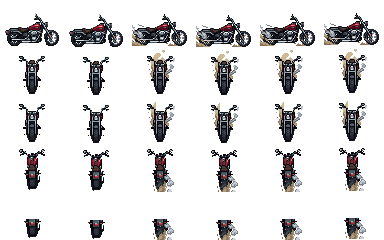
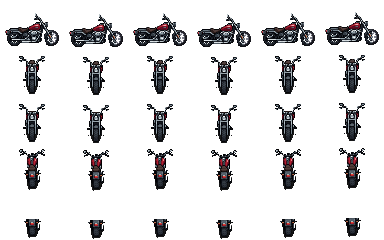
Neon Pixel UI on Tô Châu (hard pixel borders, block shadows, CRT scan, stepped animations, pixel HP/MP orbs); motorbike: clean run frames + procedural pixel dust trail and exhaust smoke
Claude-Session: https://claude.ai/code/session_01AqWtbjMjwaw5KPYKGcCy7Z

diff --git a/public/css/hudneon.css b/public/css/hudneon.css
@@ -187,3 +187,82 @@ body.hud-neon #hud-status, body.hud-neon #mini-wrap, body.hud-neon #skillbar { a
   #nx-fx .c, #nx-fx .edge::after, #nx-fx i, body.hud-neon #hud-status, body.hud-neon #mini-wrap, body.hud-neon #skillbar, body.hud-neon .panel-box::after, body.hud-neon .modal-box::after, body.hud-neon .wc-box::after { animation: none !important; }
   body.hud-neon .panel-box, body.hud-neon .modal-box { animation: none; }
 }
+
+/* =====================================================================
+   NEON PIXEL (body.hud-neon.hud-px): góc vuông, viền cứng 2px, bóng đổ khối không nhoè,
+   vạch quét màn CRT, chữ đổ bóng lệch, chuyển động giật theo khung (steps) như game 8-bit
+   ===================================================================== */
+body.hud-px { --px-cy: #19e3ff; --px-pk: #ff2e9a; --px-yl: #ffe14a; --px-ink: #05081a;
+  --px-ring: 0 0 0 2px var(--px-cy), 0 0 0 4px var(--px-ink), 0 0 0 6px rgba(25, 227, 255, .35), 6px 6px 0 4px rgba(255, 46, 154, .45);
+  --px-ring-pk: 0 0 0 2px var(--px-pk), 0 0 0 4px var(--px-ink), 0 0 0 6px rgba(255, 46, 154, .35), 5px 5px 0 4px rgba(0, 0, 0, .5);
+  --px-scan: repeating-linear-gradient(0deg, rgba(0, 0, 0, .22) 0 1px, transparent 1px 3px);
+}
+body.hud-px canvas, body.hud-px img { image-rendering: pixelated; }
+.nx-orb canvas.nx-px { position: absolute; inset: 0; width: 100%; height: 100%; image-rendering: pixelated; filter: drop-shadow(3px 3px 0 rgba(0, 0, 0, .55)); }
+body.hud-px .nx-val b { text-shadow: 2px 2px 0 #000 !important; letter-spacing: 1px; }
+body.hud-px .nx-val small { text-shadow: 1px 1px 0 #000 !important; }
+body.hud-px .nx-val em { text-shadow: 1px 1px 0 #000; }
+body.hud-px .nx-orb.low canvas { animation: pxLow .5s steps(2) infinite; }
+@keyframes pxLow { 50% { filter: brightness(1.6) drop-shadow(0 0 0 #ff2050) drop-shadow(3px 3px 0 #ff2050); } }
+
+/* khung, bảng, popup: góc vuông + viền cứng + vạch quét */
+body.hud-px #hud-status, body.hud-px #mini-wrap, body.hud-px #skillbar, body.hud-px #chat, body.hud-px #target-frame, body.hud-px #map-name, body.hud-px #tutorial-box, body.hud-px #daily-box, body.hud-px #story-box, body.hud-px #buff-line span,
+body.hud-px .panel-box, body.hud-px .modal-box, body.hud-px .bm-panel, body.hud-px .wm-panel, body.hud-px .wc-box, body.hud-px #tooltip, body.hud-px .toast, body.hud-px .wm-node, body.hud-px .wm-info {
+  border-radius: 0 !important; border: 0 !important; box-shadow: var(--px-ring) !important; }
+body.hud-px .panel-box, body.hud-px .modal-box, body.hud-px .bm-panel, body.hud-px .wm-panel, body.hud-px .wc-box {
+  background: var(--px-scan), var(--nx-grid), linear-gradient(180deg, #0a1030, #05081a) !important; animation: pxOpen .28s steps(4) both !important; }
+@keyframes pxOpen { 0% { transform: scaleY(.04); filter: brightness(3); } 50% { transform: scaleY(.6); filter: brightness(1.6); } 100% { transform: none; filter: none; } }
+body.hud-px .panel-box::after, body.hud-px .modal-box::after, body.hud-px .wc-box::after { background: linear-gradient(180deg, transparent 0 46%, rgba(25, 227, 255, .12) 46% 50%, transparent 50%) !important; animation: pxScan 3s steps(30) infinite !important; mix-blend-mode: normal; }
+@keyframes pxScan { from { transform: translateY(-100%); } to { transform: translateY(150%); } }
+body.hud-px .panel-box::before, body.hud-px .modal-box::before { inset: 4px !important; filter: none !important;
+  background: linear-gradient(var(--px-cy), var(--px-cy)) top left / 12px 4px no-repeat, linear-gradient(var(--px-cy), var(--px-cy)) top left / 4px 12px no-repeat,
+    linear-gradient(var(--px-cy), var(--px-cy)) top right / 12px 4px no-repeat, linear-gradient(var(--px-cy), var(--px-cy)) top right / 4px 12px no-repeat,
+    linear-gradient(var(--px-pk), var(--px-pk)) bottom left / 12px 4px no-repeat, linear-gradient(var(--px-pk), var(--px-pk)) bottom left / 4px 12px no-repeat,
+    linear-gradient(var(--px-pk), var(--px-pk)) bottom right / 12px 4px no-repeat, linear-gradient(var(--px-pk), var(--px-pk)) bottom right / 4px 12px no-repeat !important; }
+body.hud-px .panel-head { background: repeating-linear-gradient(90deg, rgba(25, 227, 255, .14) 0 4px, rgba(25, 227, 255, .06) 4px 8px) !important; border-bottom: 2px solid var(--px-cy) !important; }
+body.hud-px .panel-head h3, body.hud-px #panel-title, body.hud-px .bm-head b, body.hud-px .wm-head b { letter-spacing: 2.5px !important; text-shadow: 2px 2px 0 var(--px-pk), 0 0 0 transparent !important; color: #fff !important; }
+body.hud-px #panel-close, body.hud-px .x-btn, body.hud-px .bm-x, body.hud-px .wc-x { border-radius: 0 !important; border: 0 !important; background: var(--px-pk) !important; color: #fff !important; box-shadow: 0 0 0 2px #fff, 3px 3px 0 2px #000 !important; }
+body.hud-px #panel-close:active, body.hud-px .x-btn:active { transform: translate(2px, 2px); box-shadow: 0 0 0 2px #fff, 1px 1px 0 2px #000 !important; }
+
+/* thẻ, ô, nút, tab: viền vuông, bóng khối */
+body.hud-px .card, body.hud-px .li, body.hud-px .item-detail, body.hud-px .sk-head, body.hud-px .sk-slot, body.hud-px .stat-grid div, body.hud-px .au-box, body.hud-px .cmp-box, body.hud-px .npc-head {
+  border-radius: 0 !important; border: 2px solid rgba(25, 227, 255, .35) !important; box-shadow: 3px 3px 0 rgba(0, 0, 0, .45) !important; }
+body.hud-px .btn, body.hud-px .tabs button { clip-path: none !important; border-radius: 0 !important; border: 2px solid var(--px-cy) !important; box-shadow: 3px 3px 0 #000 !important; text-shadow: 1px 1px 0 #000 !important; text-transform: uppercase; letter-spacing: .6px; }
+body.hud-px .btn:hover, body.hud-px .tabs button:hover { box-shadow: 3px 3px 0 var(--px-pk) !important; background: rgba(25, 227, 255, .22) !important; }
+body.hud-px .btn:active, body.hud-px .tabs button:active { transform: translate(2px, 2px); box-shadow: 1px 1px 0 #000 !important; }
+body.hud-px .btn.primary, body.hud-px .tabs button.on { background: var(--px-cy) !important; color: #031026 !important; border-color: #fff !important; text-shadow: none !important; box-shadow: 3px 3px 0 var(--px-pk) !important; }
+body.hud-px .btn.green { background: #3dffb0 !important; color: #022a1a !important; border-color: #fff !important; text-shadow: none !important; box-shadow: 3px 3px 0 #000 !important; }
+body.hud-px .btn.red { background: var(--px-pk) !important; color: #fff !important; border-color: #fff !important; box-shadow: 3px 3px 0 #000 !important; }
+body.hud-px .slot { border-radius: 0 !important; border: 2px solid rgba(25, 227, 255, .4) !important; background: linear-gradient(135deg, rgba(25, 227, 255, .12) 25%, transparent 25%) 0 0 / 4px 4px, #060a22 !important; box-shadow: inset -2px -2px 0 rgba(0, 0, 0, .5), inset 2px 2px 0 rgba(255, 255, 255, .06) !important; }
+body.hud-px .slot.r-rare { border-color: #4fa3ff !important; box-shadow: 0 0 0 2px rgba(79, 163, 255, .35) !important; }
+body.hud-px .slot.r-epic { border-color: #c060ff !important; box-shadow: 0 0 0 2px rgba(192, 96, 255, .4) !important; }
+body.hud-px .slot.r-legendary { border-color: #ff9b2f !important; box-shadow: 0 0 0 2px rgba(255, 155, 47, .45) !important; animation: pxBlink 1s steps(2) infinite; }
+@keyframes pxBlink { 50% { box-shadow: 0 0 0 2px rgba(255, 225, 74, .8) !important; } }
+body.hud-px input, body.hud-px select, body.hud-px textarea { border-radius: 0 !important; border: 2px solid var(--px-cy) !important; box-shadow: inset 2px 2px 0 rgba(0, 0, 0, .6) !important; }
+
+/* HUD: khung nhân vật, bản đồ nhỏ, nút menu, nút chiêu */
+body.hud-px .avatar { border-radius: 0 !important; border: 0 !important; box-shadow: 0 0 0 2px var(--px-cy), 0 0 0 4px var(--px-ink), 3px 3px 0 4px var(--px-pk) !important; }
+body.hud-px .avatar canvas { border-radius: 0 !important; }
+body.hud-px #hud-level { border-radius: 0 !important; box-shadow: 2px 2px 0 #000 !important; }
+body.hud-px #menu-buttons button, body.hud-px .qb { border-radius: 0 !important; border: 2px solid rgba(25, 227, 255, .7) !important; box-shadow: 3px 3px 0 rgba(0, 0, 0, .55) !important; }
+body.hud-px #menu-buttons button:active, body.hud-px .qb:active { transform: translate(2px, 2px); box-shadow: 1px 1px 0 #000 !important; }
+body.hud-px #minimap { border-radius: 0 !important; border: 0 !important; box-shadow: 0 0 0 2px var(--px-cy) !important; image-rendering: pixelated; }
+body.hud-px .skill { border-radius: 0 !important; box-shadow: 2px 2px 0 #000 !important; }
+body.hud-px #joy-base { box-shadow: 0 0 0 2px var(--px-ink), 0 0 0 4px rgba(25, 227, 255, .4) !important; border-style: dashed !important; }
+body.hud-px #exp-bar i { background: repeating-linear-gradient(90deg, var(--px-cy) 0 6px, #0aa0c0 6px 8px, transparent 8px 10px) !important; box-shadow: none !important; }
+body.hud-px #hud-status, body.hud-px #mini-wrap, body.hud-px #skillbar { animation: pxBreath 2.4s steps(3) infinite !important; }
+@keyframes pxBreath { 50% { box-shadow: 0 0 0 2px #fff, 0 0 0 4px var(--px-ink), 0 0 0 6px rgba(25, 227, 255, .5), 6px 6px 0 4px rgba(255, 46, 154, .55); } }
+
+/* hiệu ứng viền màn hình kiểu pixel */
+body.hud-px #nx-fx .c { border-width: 4px; filter: none; animation: pxCorner 1.2s steps(2) infinite; width: 28px; height: 28px; }
+@keyframes pxCorner { 50% { opacity: .25; } }
+body.hud-px #nx-fx .edge { height: 2px; background: repeating-linear-gradient(90deg, rgba(25, 227, 255, .55) 0 6px, transparent 6px 12px); }
+body.hud-px #nx-fx .edge.b { background: repeating-linear-gradient(90deg, rgba(255, 46, 154, .55) 0 6px, transparent 6px 12px); }
+body.hud-px #nx-fx .edge::after { height: 4px; top: -1px; border-radius: 0; width: 48px; box-shadow: none; background: repeating-linear-gradient(90deg, #fff 0 4px, transparent 4px 6px); animation: nxRun 4s steps(60) infinite; }
+body.hud-px #nx-fx .side { width: 2px; background: repeating-linear-gradient(180deg, rgba(25, 227, 255, .45) 0 4px, transparent 4px 10px); }
+body.hud-px #nx-fx .side.r { background: repeating-linear-gradient(180deg, rgba(255, 46, 154, .45) 0 4px, transparent 4px 10px); }
+body.hud-px #nx-fx i { border-radius: 0; width: 4px; height: 4px; box-shadow: none; animation-timing-function: steps(18); }
+/* lớp vạch quét CRT phủ nhẹ toàn HUD */
+body.hud-px #nx-fx::after { content: ''; position: absolute; inset: 0; background: repeating-linear-gradient(0deg, rgba(0, 0, 0, .08) 0 1px, transparent 1px 3px); }
+body.hud-px .toast { background: #060a22 !important; color: #e6fbff; text-shadow: 1px 1px 0 #000; }
+@media (prefers-reduced-motion: reduce) { body.hud-px .panel-box, body.hud-px .modal-box, body.hud-px #nx-fx .c, body.hud-px #nx-fx .edge::after, body.hud-px #hud-status, body.hud-px #mini-wrap, body.hud-px #skillbar, body.hud-px .slot.r-legendary { animation: none !important; } }

diff --git a/public/js/mountfx.js b/public/js/mountfx.js
@@ -286,35 +286,71 @@
       dragonLightning(ctx, x, y, now, side, seed, lv || 1, 'under');
     } else if (id === 'kim_quy' || id === 'kim_nguu') {
       groundGlow(ctx, x, y, 40, '#ffd040', 0.18 + Math.sin(now / 300 + seed) * 0.05);
-    }
-  }
-  // Xe máy: đứng yên nổ máy (khói pô phụt từng nhịp, xe rung trong ảnh), chạy: khói xả dày + bụi đường tung sau bánh
-  // + vệt đèn pha phía trước khi chạy. Toạ độ theo khung ảnh (tools/mount_art/xe_may): nhìn ngang pô ở đuôi xe, thấp.
-  const SMOKE = ['#d8d8de', '#b8b8c2', '#9a9aa6'], DUST = ['#c8a878', '#b08c5a', '#dcc49a'];
-  function engine(ctx, x, y, now, view, moving, key, flip) {
-    const R = Math.random, side = view === 'side', dir = flip ? -1 : 1;   // dir: hướng đầu xe khi nhìn ngang
-    // điểm pô xả / bánh sau theo hướng nhìn
-    const ex = side ? x - dir * 34 : view === 'up' ? x + 9 : x + 11, ey = side ? y - 9 : view === 'up' ? y - 10 : y - 34;
-    const back = side ? Math.PI * (dir > 0 ? 1 : 0) : view === 'up' ? Math.PI / 2 : -Math.PI / 2;   // hướng khói bay (ngược chiều chạy)
-    if (!moving) {
-      // nổ máy: mỗi nhịp phụt 1-2 cụm khói nhỏ, bay lên chậm rồi tan
-      if (every(key + 'pf', 240 + R() * 140, now)) FX.emit(1 + (R() < 0.35 ? 1 : 0), ex, ey, { angle: back - (side ? 0 : 0), spread: 0.9, speed: 16, vy: -14, life: 950, size: 3.4, color: SMOKE[Math.floor(R() * 3)], drag: 1.6 });
-      return;
-    }
-    // chạy: khói xả kéo vệt + bụi đường hai bên bánh sau
-    if (every(key + 'pm', 55, now)) FX.emit(1, ex, ey, { angle: back, spread: 0.45, speed: 70, vy: -10, life: 620, size: 3.8, color: SMOKE[Math.floor(R() * 3)], drag: 2 });
-    const wx = side ? x - dir * 26 : x + (R() - 0.5) * 12, wy = side ? y - 2 : view === 'up' ? y - 2 : y - 30;
-    if (every(key + 'pd', 45, now)) FX.emit(1, wx, wy, { angle: back + (R() - 0.5) * 0.8, spread: 0.7, speed: 55, vy: -24, life: 520, size: 3.2, color: DUST[Math.floor(R() * 3)], drag: 2.4, grav: 40 });
-    // đèn pha: quạt sáng mờ phía trước (nhìn ngang / nhìn xuống)
-    if (view !== 'up') {
-      ctx.save(); ctx.globalCompositeOperation = 'lighter';
-      const hx = side ? x + dir * 30 : x, hy = side ? y - 26 : y - 22, len = side ? 70 : 46, a0 = side ? (dir > 0 ? 0 : Math.PI) : Math.PI / 2;
-      const g = ctx.createRadialGradient(hx, hy, 2, hx, hy, len);
-      g.addColorStop(0, 'rgba(255,246,200,.32)'); g.addColorStop(1, 'rgba(255,246,200,0)');
-      ctx.fillStyle = g; ctx.globalAlpha = 0.75 + Math.sin(now / 90) * 0.08;
-      ctx.beginPath(); ctx.moveTo(hx, hy); ctx.arc(hx, hy, len, a0 - 0.32, a0 + 0.32); ctx.closePath(); ctx.fill();
+    } else if (id === 'xe_may') {
+      // hạt bụi ở toạ độ thế giới: bỏ lớp thu nhỏ quanh thú (mfx) để vệt bụi đứng yên trên mặt đất khi xe chạy đi
+      const MK = (window.Assets && Assets.MOUNT_K) || 1;
+      ctx.save(); ctx.translate(x, y); ctx.scale(1 / MK, 1 / MK); ctx.translate(-x, -y);
+      motoEmit(x, y, now, view, moving, id + seed, flip, MK);
+      motoPuffs(ctx, id + seed, now);
       ctx.restore();
     }
+  }
+  // Xe máy: hạt bụi / khói riêng (toạ độ thế giới, sống lâu) -> xe chạy qua để lại vệt bụi dài phía sau.
+  // Vẽ kiểu pixel (khối vuông ghép), dưới thân xe. Đứng yên: máy nổ phụt khói từng nhịp. Chạy: khói xả kéo vệt + bụi tung sau bánh.
+  const SMOKE = ['#e2e2ea', '#c4c4ce', '#a2a2ae'], DUST = ['#d6b888', '#c2a070', '#e4cfa4', '#b08c5a'];
+  const PUFFS = new Map();   // key -> { list, last, mv }
+  function puffOf(key) { let P = PUFFS.get(key); if (!P) PUFFS.set(key, P = { list: [], last: 0, mv: 0 }); return P; }
+  function addPuff(P, x, y, o) { if (P.list.length < 170) P.list.push(Object.assign({ x, y, t0: performance.now(), vx: 0, vy: 0, r0: 2, r1: 10, a: .5, life: 1500 }, o)); }
+  function motoEmit(x, y, now, view, moving, key, flip, MK) {
+    const P = puffOf(key), R = Math.random, side = view === 'side', dir = flip ? -1 : 1;
+    // pô xả và bánh sau theo hướng nhìn (đơn vị theo ảnh thú, nhân MK ra toạ độ thế giới)
+    const ex = x + (side ? -dir * 36 : view === 'up' ? 10 : 12) * MK, ey = y - (side ? 9 : view === 'up' ? 10 : 36) * MK;
+    const bx = side ? -dir : 0, by = side ? 0 : view === 'up' ? 1 : -1;   // hướng "phía sau xe" trên màn hình
+    const wx = x + (side ? -dir * 26 : 0) * MK, wy = y - (side ? 1 : view === 'up' ? 1 : 30) * MK;
+    if (moving && !P.mv) for (let k = 0; k < 6; k++) addPuff(P, wx + (R() - .5) * 10, wy, { vx: bx * 40 + (R() - .5) * 60, vy: -20 - R() * 20, r0: 3, r1: 14, a: .6, life: 1400, c: DUST[k % 4] });   // vừa rồ ga: tung bụi
+    P.mv = moving;
+    if (moving) {
+      if (every(key + 'xd', 22, now)) addPuff(P, wx + (R() - .5) * 8, wy + (R() - .5) * 4, { vx: bx * 18 + (R() - .5) * 14, vy: by * 18 - 5 - R() * 6, r0: 5, r1: 14 + R() * 6, a: .6, life: 2400 + R() * 900, c: DUST[Math.floor(R() * 4)] });
+      if (every(key + 'xs', 60, now)) addPuff(P, ex, ey, { vx: bx * 34 + (R() - .5) * 10, vy: by * 34 - 8, r0: 2, r1: 9, a: .5, life: 1100 + R() * 300, c: SMOKE[Math.floor(R() * 3)] });
+      if (every(key + 'xk', 90, now)) FX.emit(1, wx, wy - 2, { angle: Math.atan2(by || -0.6, bx || 0), spread: 1, speed: 70, vy: -30, grav: 260, life: 420, size: 2, color: '#6a5232' });   // sỏi đá văng
+    } else if (every(key + 'xi', 260 + R() * 160, now)) {   // nổ máy: phụt khói từng nhịp
+      const n = R() < .4 ? 2 : 1;
+      for (let k = 0; k < n; k++) addPuff(P, ex + k * bx * 3, ey, { vx: bx * 12 + (R() - .5) * 8, vy: -14 - R() * 8, r0: 1.5, r1: 7 + R() * 3, a: .55, life: 1500 + R() * 400, c: SMOKE[Math.floor(R() * 3)], delay: k * 90 });
+    }
+  }
+  function motoPuffs(ctx, key, now) {
+    const P = PUFFS.get(key); if (!P) return;
+    const dt = Math.min(.1, (now - (P.last || now)) / 1000); P.last = now;
+    ctx.save();
+    const L = P.list;
+    for (let i = L.length - 1; i >= 0; i--) {
+      const q = L[i], age = now - q.t0 - (q.delay || 0);
+      if (age < 0) continue;
+      if (age > q.life) { L.splice(i, 1); continue; }
+      const k = age / q.life, damp = Math.max(0, 1 - 1.4 * dt);
+      q.vx *= damp; q.vy *= damp; q.x += q.vx * dt; q.y += q.vy * dt;
+      const r = Math.max(1, Math.round((q.r0 + (q.r1 - q.r0) * Math.sqrt(k)) / 2) * 2), a = q.a * (1 - k) * (k < .02 ? k / .02 : 1);
+      const cx = Math.round(q.x / 2) * 2, cy = Math.round(q.y / 2) * 2, h = Math.round(r * .62 / 2) * 2;
+      ctx.globalAlpha = a * .45; ctx.fillStyle = '#000';
+      ctx.fillRect(cx - r + 2, cy - h + 2, r * 2, h * 2);   // bóng khối phía dưới
+      ctx.globalAlpha = a; ctx.fillStyle = q.c;
+      ctx.fillRect(cx - r, cy - h, r * 2, h * 2); ctx.fillRect(cx - h, cy - r, h * 2, r * 2);   // khối mây ghép hình chữ thập (pixel)
+      if (r >= 6) { ctx.globalAlpha = a * .7; ctx.fillStyle = '#fff'; ctx.fillRect(cx - h, cy - r, Math.max(2, h), 2); }   // ánh sáng mép trên
+    }
+    ctx.restore();
+    if (!L.length) PUFFS.delete(key);
+  }
+  function engine(ctx, x, y, now, view, moving, key, flip) {
+    // đèn pha: quạt sáng mờ phía trước khi chạy (nhìn ngang / nhìn xuống)
+    if (!moving || view === 'up') return;
+    const side = view === 'side', dir = flip ? -1 : 1;
+    ctx.save(); ctx.globalCompositeOperation = 'lighter';
+    const hx = side ? x + dir * 30 : x, hy = side ? y - 26 : y - 22, len = side ? 70 : 46, a0 = side ? (dir > 0 ? 0 : Math.PI) : Math.PI / 2;
+    const g = ctx.createRadialGradient(hx, hy, 2, hx, hy, len);
+    g.addColorStop(0, 'rgba(255,246,200,.32)'); g.addColorStop(1, 'rgba(255,246,200,0)');
+    ctx.fillStyle = g; ctx.globalAlpha = 0.75 + Math.sin(now / 90) * 0.08;
+    ctx.beginPath(); ctx.moveTo(hx, hy); ctx.arc(hx, hy, len, a0 - 0.32, a0 + 0.32); ctx.closePath(); ctx.fill();
+    ctx.restore();
   }
   const fireMul = lv => 0.8 + Math.min(50, lv || 1) / 50 * 0.6;   // lửa cao dần theo cấp
   function over(ctx, id, x, y, now, view, moving, seed, flip, lv) {

diff --git a/public/js/hudneon.js b/public/js/hudneon.js
@@ -1,11 +1,12 @@
 // Giao diện "Neon Huyền Cơ": 2 bình tròn Máu / Nội lực (chất lỏng gợn sóng, vòng đo % phát sáng) ở hai bên phía dưới
 // + khoác lại màu neon cho khung nhân vật, bản đồ nhỏ, nút chiêu, cần điều khiển, thanh kinh nghiệm.
-// Đang thử nghiệm: bật trên server Tô Châu (hoặc localStorage vl_hud = 'neon'); 'classic' để tắt.
+// Đang thử nghiệm trên server Tô Châu: mặc định bản Neon Pixel (vl_hud = 'neonpx'); 'neon' = bản mượt; 'classic' = tắt.
 (function () {
   'use strict';
   let pref = null; try { pref = localStorage.getItem('vl_hud'); } catch (e) { }
-  const on = pref === 'neon' || (pref !== 'classic' && window.REALM && REALM.id === 'tochau');
-  const HudNeon = window.HudNeon = { on, set() { } };
+  const mode = pref === 'neon' || pref === 'neonpx' ? pref : pref !== 'classic' && window.REALM && REALM.id === 'tochau' ? 'neonpx' : null;
+  const on = !!mode, PX = mode === 'neonpx';
+  const HudNeon = window.HudNeon = { on, px: PX, set() { } };
   if (!on) return;
 
   const COL = { hp: ['#ff8ac8', '#ff2e7a', '#5a0030'], mp: ['#a8faff', '#19c3ff', '#04306a'] };
@@ -30,9 +31,16 @@
   const orbs = {};
   function build() {
     const hud = document.getElementById('hud'); if (!hud || orbs.hp) return;
-    document.body.classList.add('hud-neon');
+    document.body.classList.add('hud-neon'); if (PX) document.body.classList.add('hud-px');
     for (const k of ['hp', 'mp']) {
       const el = document.createElement('div'); el.className = 'nx-orb ' + k; el.id = 'nx-' + k; el.innerHTML = svg(k);
+      if (PX) {   // bản pixel: bình vẽ bằng điểm ảnh trên canvas nhỏ rồi phóng to giữ nét vuông
+        el.querySelector('svg').remove();
+        const cv = document.createElement('canvas'); cv.width = cv.height = PXN; cv.className = 'nx-px'; el.insertBefore(cv, el.firstChild);
+        hud.appendChild(el);
+        orbs[k] = { el, cv, g: cv.getContext('2d'), img: null, b: el.querySelector('.nx-val b'), sm: el.querySelector('.nx-val small'), lv: 1, target: 1, cur: -1, max: -1, ph: k === 'hp' ? 0 : 2.5, kind: k };
+        continue;
+      }
       hud.appendChild(el);
       const s = el.querySelector('svg');
       orbs[k] = { el, w1: s.querySelector('.w1'), w2: s.querySelector('.w2'), bub: [...s.querySelectorAll('.bub circle')], gauge: s.querySelector('.gauge'), spin: s.querySelector('.spin'),
@@ -96,15 +104,49 @@
     return d + ' L120 130 L0 130 Z';
   }
   let last = 0, acc = 0;
+  // ---- bình pixel: 40x40 điểm ảnh, chất lỏng sóng theo cột, mặt nước sáng, bọt khí, vòng đo % dạng đốt sáng ----
+  const PXN = 40, PC = { hp: [[255, 138, 200], [255, 46, 122], [150, 10, 70], [70, 0, 40]], mp: [[168, 250, 255], [25, 195, 255], [10, 110, 200], [4, 40, 106]] };
+  function drawPx(o, t) {
+    const N = PXN, c = N / 2 - .5, g = o.g;
+    if (!o.img) o.img = g.createImageData(N, N);
+    const d = o.img.data, P = PC[o.kind], lv = o.lv, R = 15.2, top = c - R, surf = top + (1 - lv) * (2 * R);
+    const segs = 28, lit = Math.round(lv * segs);
+    for (let y = 0; y < N; y++) for (let x = 0; x < N; x++) {
+      const i = (y * N + x) * 4, dx = x - c, dy = y - c, r = Math.hypot(dx, dy);
+      let col = null, a = 255;
+      if (r <= R) {
+        const wy = surf + Math.round(Math.sin(x * .55 + t * 3.2 + o.ph) * 1.2 + Math.sin(x * .23 - t * 2.1) * .8);
+        if (y >= wy) {
+          const depth = (y - wy) / (2 * R);
+          col = y - wy < 1 ? P[0] : depth < .35 ? P[1] : depth < .7 ? P[2] : P[3];
+          if (((x + y) & 1) && depth > .32 && depth < .38) col = P[1];   // dải chuyển màu kiểu dither
+          if (((x + y) & 1) && depth > .67 && depth < .73) col = P[2];
+          const bub = (k) => { const bx = Math.round(c - 8 + k * 6 + Math.sin(t * 2 + k) * 1.2), by = Math.round(c + R - ((t * (4 + k * 1.5) + k * 7) % (c + R - wy))); return x === bx && y === by && lv > .08; };
+          if (bub(0) || bub(1) || bub(2)) col = [255, 255, 255];
+        } else { col = ((x + y) % 4 === 0) ? [18, 26, 70] : [8, 12, 36]; }
+        if ((dx + 6) ** 2 + (dy + 8) ** 2 < 6 && dx < -2) col = [255, 255, 255];   // ánh kính
+        else if (r > R - 1.1) col = [P[1][0] * .5 + 40, P[1][1] * .5 + 40, P[1][2] * .5 + 40];   // viền trong
+      } else if (r <= R + 1.4) col = [6, 8, 24];
+      else if (r <= R + 4.4) {   // vòng đo: các đốt sáng theo %
+        let ang = Math.atan2(dx, -dy); if (ang < 0) ang += Math.PI * 2;
+        const sg = Math.floor(ang / (Math.PI * 2) * segs), gap = (ang / (Math.PI * 2) * segs) % 1 > .78;
+        if (gap) col = null; else if (sg < lit) col = r > R + 3.2 ? P[1] : P[0]; else col = [30, 40, 90];
+        if (col && sg < lit && sg === lit - 1 && (t * 4 | 0) % 2) col = [255, 255, 255];   // đốt cuối nhấp nháy
+      }
+      if (col) { d[i] = col[0]; d[i + 1] = col[1]; d[i + 2] = col[2]; d[i + 3] = a; } else d[i + 3] = 0;
+    }
+    g.putImageData(o.img, 0, 0);
+  }
   function frame(now) {
     requestAnimationFrame(frame);
     if (document.hidden) return;
     const dt = Math.min(.1, (now - last) / 1000); last = now; acc += dt;
-    if (acc < 1 / 30) return;   // 30 khung/giây là đủ mượt cho sóng, đỡ tốn pin
+    if (acc < (PX ? 1 / 12 : 1 / 30)) return;   // 30 khung/giây đủ mượt; bản pixel 12 khung/giây cho đúng chất pixel, đỡ tốn pin
     const step = acc; acc = 0; const t = now / 1000;
     for (const k in orbs) {
       const o = orbs[k];
       o.lv += (o.target - o.lv) * Math.min(1, step * 5);
+      if (o.cv) { drawPx(o, t); continue; }
       const y = 104 - 88 * o.lv, slosh = Math.min(4, Math.abs(o.target - o.lv) * 40) + 1.4;
       o.w1.setAttribute('d', wave(y, t, slosh, o.ph, 1.5));
       o.w2.setAttribute('d', wave(y - 2, t * 1.3, slosh * 1.2, o.ph + 2, 1.1));

diff --git a/server/data/changelog.js b/server/data/changelog.js
@@ -10,7 +10,9 @@ const CHANGELOG = [
       '🏯 Server hiện tại đổi tên thành server Tương Dương. Thêm server mới Tô Châu (tài khoản, nhân vật riêng) – chọn server ngay ở màn đăng nhập. Tô Châu sẽ mở cửa theo thông báo.',
       '🌐 Trang chọn server mới (volam2d.com/server): Tương Dương ở trên, Tô Châu ở dưới, nền động có các bóng võ sĩ luyện công. Nút Chơi ngay ở trang chủ dẫn vào trang này; đổi server ở màn đăng nhập.',
       '✨ Chọn server có hiệu ứng chuyển cảnh (vòng neon, máy quay lao về chân trời, các võ sĩ ôm quyền chào). Điện thoại: chạm màn hình để xoay ngang toàn màn hình.',
-      '🏍 Thú cưỡi mới: Xe Máy Phân Khối Lớn (+55% tốc độ) – đứng yên nổ máy phụt khói, chạy tung bụi, đèn pha sáng phía trước. Sắp mở bán ở Kỳ Trân Các.'
+      '🏍 Thú cưỡi mới: Xe Máy Phân Khối Lớn (+55% tốc độ) – đứng yên nổ máy phụt khói, chạy tung bụi, đèn pha sáng phía trước. Sắp mở bán ở Kỳ Trân Các.',
+      '🌫 Xe máy: bụi đường tung sau bánh và để lại vệt bụi dài phía sau khi chạy, khói pô dày hơn khi rồ ga, đứng yên nổ máy phụt khói từng nhịp.',
+      '👾 Server Tô Châu thử nghiệm giao diện Neon Pixel: khung vuông viền sáng, bóng đổ khối, vạch quét màn, bình Sinh lực / Nội lực vẽ bằng điểm ảnh.'
     ]
   },
   {

diff --git a/tools/mount_art/xe_may/build.py b/tools/mount_art/xe_may/build.py
@@ -4,7 +4,8 @@
 
 Khung GIF: 0 nhìn xuống (đầu xe về phía người xem), 2 nhìn ngang quay phải, 4 nhìn lên (đuôi xe).
 Khung nhìn ngang bị cắt mất nửa phải bánh trước ở mép ảnh: vẽ bù bánh (lốp, vành, nan, trục) cho tròn.
-xe_may_chay.gif: cùng 8 hướng khi đang chạy (bụi đường + khói pô vẽ sẵn) -> dùng cho các khung chạy.
+xe_may_chay.gif: bản đang chạy có bụi/khói vẽ sẵn – KHÔNG dùng (bụi bị cắt mép ô, đứng yên một chỗ trông cụt).
+Khung chạy dùng ảnh xe sạch + nảy nhẹ; bụi đường, khói pô, vệt bụi dài phía sau do game vẽ (public/js/mountfx.js).
 Sheet: ô CW x CH; cột 0..1 = đứng yên nổ máy (rung 1px), cột 2..5 = chạy (nảy nhẹ trên ổ gà).
 Hàng: 0 ngang · 1 xuống (lớp sau) · 2 xuống (lớp đè: ghi-đông + đầu xe) · 3 lên (lớp sau) · 4 lên (lớp đè: đuôi xe dưới hông).
 """
@@ -77,8 +78,8 @@ def seat_of(a, fb):
     return (float(xs.mean()), float(ys.min()) + 1.0)
 
 def build():
-    F, R = frames(), frames('xe_may_chay')
-    src = {'side': (fix_front_wheel(F[2]), fix_front_wheel(R[2])), 'down': (F[0], R[0]), 'up': (F[4], R[4])}
+    F = frames()
+    src = {'side': (fix_front_wheel(F[2]),) * 2, 'down': (F[0],) * 2, 'up': (F[4],) * 2}
     bobs = BOB_IDLE + BOB_RUN
     cols, seats = {}, {}
     for k, (still, run) in src.items():
